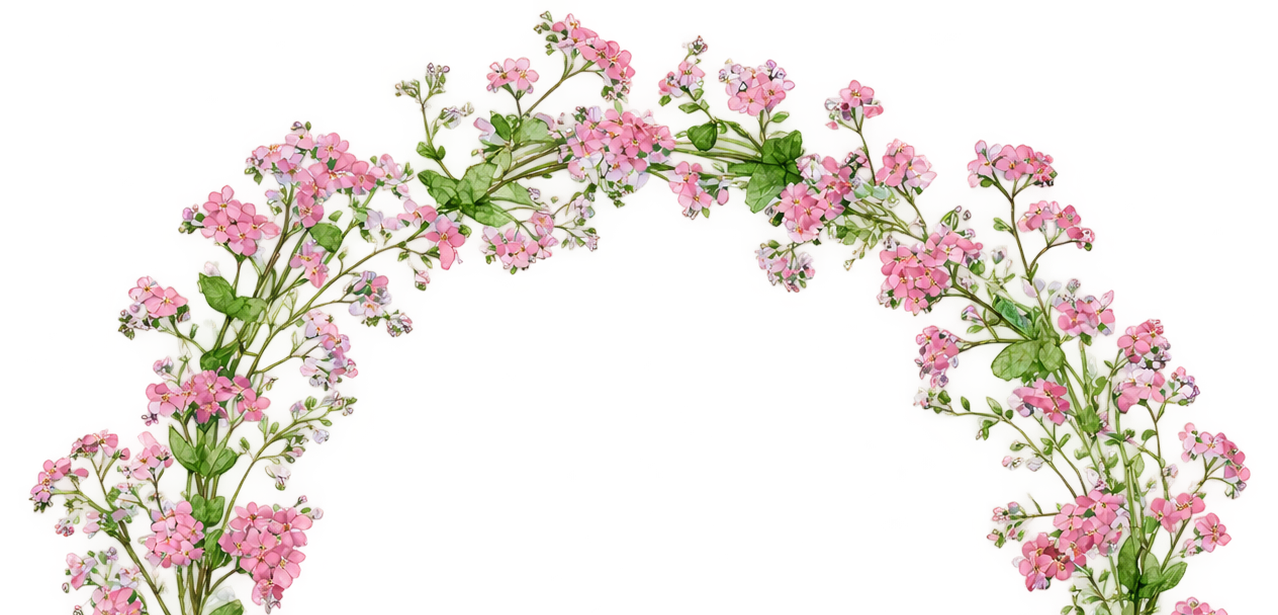
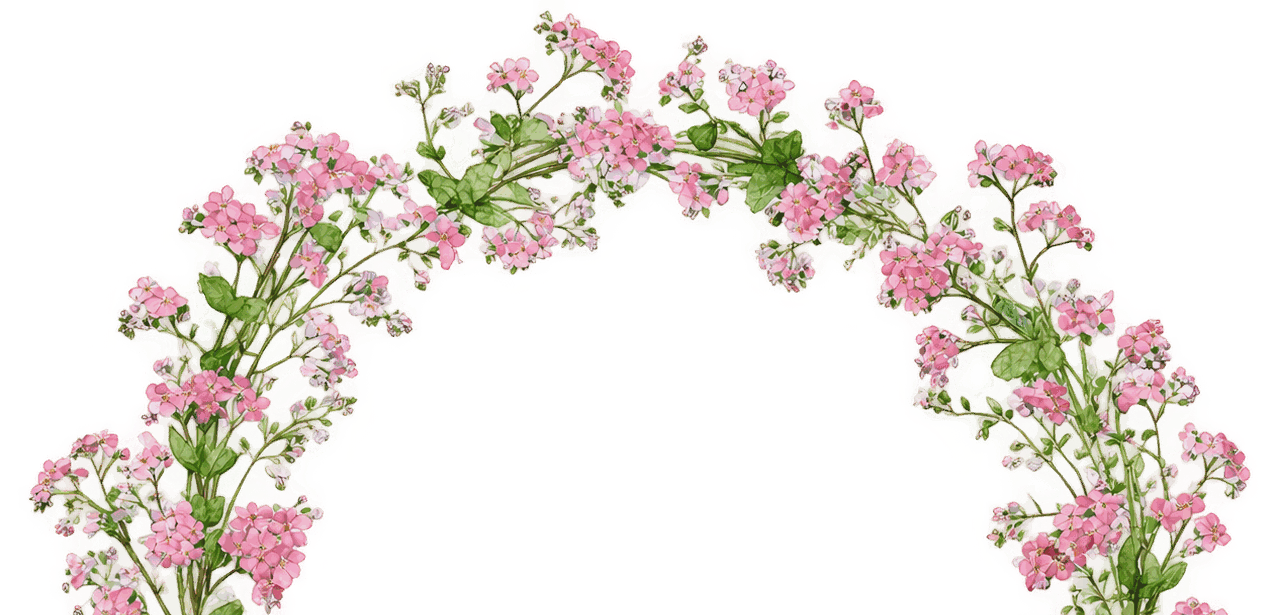
Add file-size CI check and optimise large PNGs (#77)
Quantise seven oversized PNGs to 256 colours (about 11 MB down to 2 MB) and
add scripts/check-file-sizes.py with a CI job enforcing size budgets.

Claude-Session: https://claude.ai/code/session_01B7ArocJjNhN3zDyP1rEHZ4

diff --git a/scripts/check-file-sizes.py b/scripts/check-file-sizes.py
@@ -1,0 +1,41 @@
+#!/usr/bin/env python3
+"""Fail if any tracked file exceeds its size budget.
+
+Images are capped at 600 KB, other files at 200 KB. cake/ is a bundled
+artifact outside site maintenance and is skipped. To fix an oversized image,
+resize it to the largest size it is displayed at and quantise or re-encode it
+(for example, a 256-colour PNG, or a JPEG at quality ~80).
+"""
+import subprocess
+import sys
+from pathlib import Path
+
+KB = 1024
+IMAGE_EXTS = {".png", ".jpg", ".jpeg", ".gif", ".webp", ".avif"}
+IMAGE_LIMIT = 600 * KB
+OTHER_LIMIT = 200 * KB
+EXCLUDED_PREFIXES = ("cake/",)
+
+
+def main():
+    out = subprocess.run(
+        ["git", "ls-files"], capture_output=True, text=True, check=True
+    ).stdout.splitlines()
+    failures = []
+    for f in out:
+        if f.startswith(EXCLUDED_PREFIXES) or not Path(f).is_file():
+            continue
+        size = Path(f).stat().st_size
+        limit = IMAGE_LIMIT if Path(f).suffix.lower() in IMAGE_EXTS else OTHER_LIMIT
+        if size > limit:
+            failures.append((f, size, limit))
+    if failures:
+        print("Files over their size budget:")
+        for f, size, limit in failures:
+            print(f"  {f}: {size / KB:.0f} KB (limit {limit // KB} KB)")
+        sys.exit(1)
+    print("All tracked files are within their size budgets.")
+
+
+if __name__ == "__main__":
+    main()

diff --git a/CLAUDE.md b/CLAUDE.md
@@ -13,7 +13,7 @@ A static, mobile-first wedding website for Rosie & Joe, built with vanilla HTML,
 
 There is no build step. Open any `.html` file directly in a browser, or serve the directory with any static file server (e.g. `python3 -m http.server`). All paths are relative, so both approaches work.
 
-There are no tests, linters, or package manifests in this repo. `.github/workflows/ci.yml` runs `html-proofer` (link/image/HTML validity checks, with `cake/index.html` excluded), `node --check` on `js/main.js` and `js/book-intro.js`, and `scripts/check-unused-files.py` (fails if any tracked file under `images/`, `css/`, or `js/` isn't referenced by filename from any tracked HTML/CSS/JS source) on every push/PR.
+There are no tests, linters, or package manifests in this repo. `.github/workflows/ci.yml` runs `html-proofer` (link/image/HTML validity checks, with `cake/index.html` excluded), `node --check` on `js/main.js` and `js/book-intro.js`, `scripts/check-file-sizes.py` (fails if a tracked image is over 600 KB or any other file over 200 KB, excluding `cake/`; shrink oversized images by resizing and quantising or re-encoding them), and `scripts/check-unused-files.py` (fails if any tracked file under `images/`, `css/`, or `js/` isn't referenced by filename from any tracked HTML/CSS/JS source) on every push/PR.
 
 ## Architecture
 
